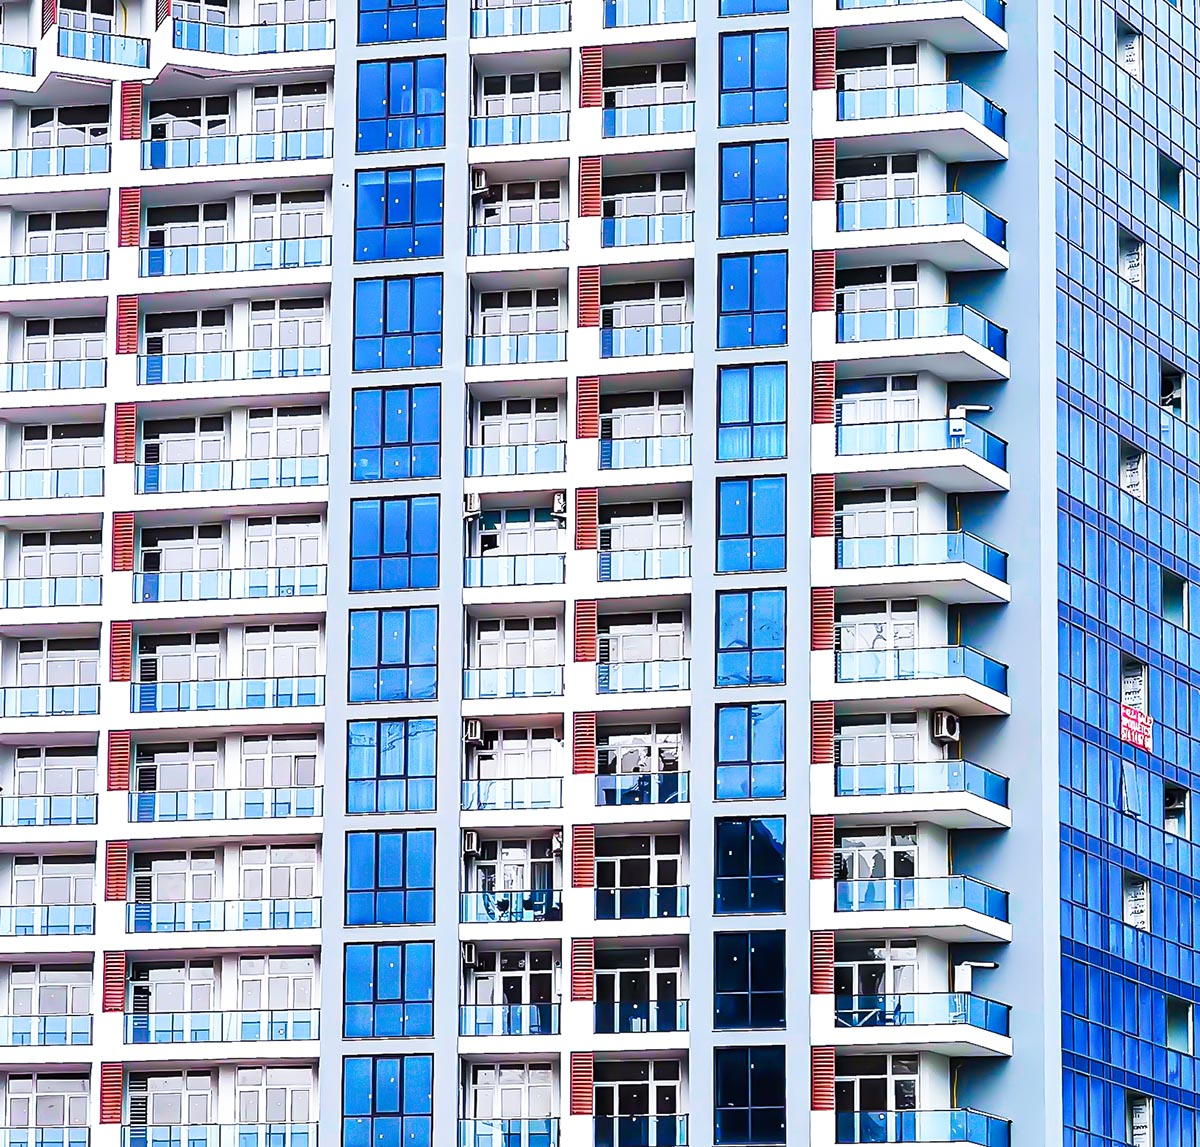
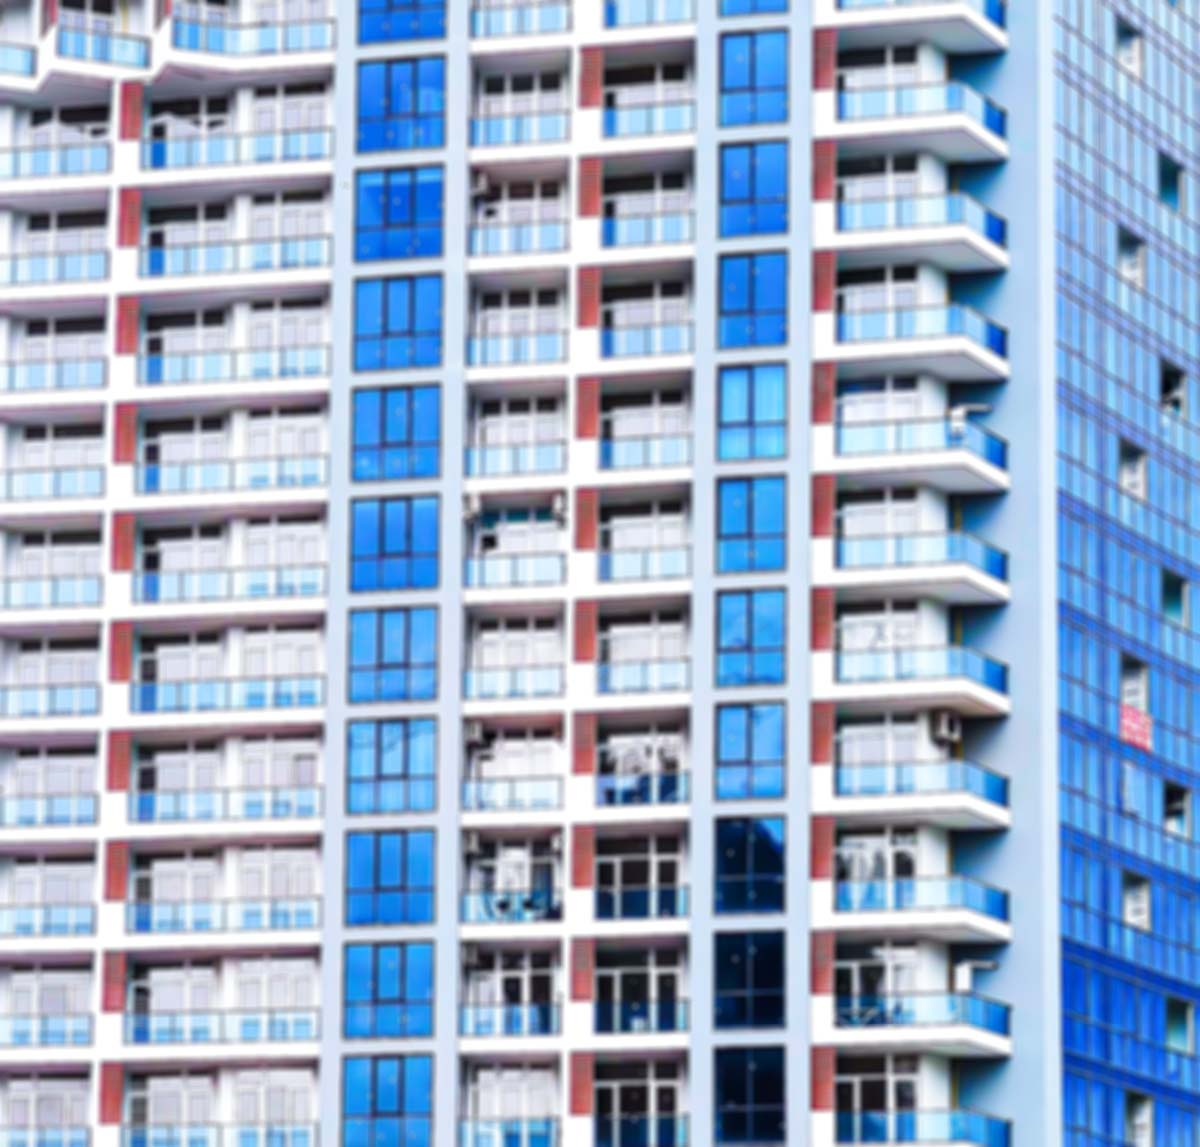
fixes

diff --git a/assets/sass/_container.scss b/assets/sass/_container.scss
@@ -2,14 +2,14 @@
   position: relative;
   height: 100%;
   margin-left: 260px;
-  background-image: url('../../static/images/bg_.jpg');
+  background-image: url('../../static/images/bg.jpg');
   background-repeat: no-repeat;
   background-size: cover;
   background-attachment: fixed;
   z-index: 0;
 
   &.blur {
-    background-image: url('../../static/images/bgblur_.jpg');
+    background-image: url('../../static/images/bgblur.jpg');
     animation: bgBlur 1s;
     animation-iteration-count: 1;
     -webkit-animation: bgBlur 1s;
@@ -18,21 +18,21 @@
 
   @-webkit-keyframes bgBlur {
     0% {
-      background-image: url('../../static/images/bg_.jpg');
+      background-image: url('../../static/images/bg.jpg');
     }
 
     100% {
-      background-image: url('../../static/images/bgblur_.jpg');
+      background-image: url('../../static/images/bgblur.jpg');
     }
   }
 
   @keyframes bgBlur {
     0% {
-      background-image: url('../../static/images/bg_.jpg');
+      background-image: url('../../static/images/bg.jpg');
     }
 
     100% {
-      background-image: url('../../static/images/bgblur_.jpg');
+      background-image: url('../../static/images/bgblur.jpg');
     }
   }
 

diff --git a/assets/sass/_general.scss b/assets/sass/_general.scss
@@ -6,7 +6,7 @@ body {
   position: relative;
   min-height: 100vh;
   margin: 0;
-  background-image: url('../../static/images/bg_.jpg');
+  background-image: url('../../static/images/bg.jpg');
   background-repeat: no-repeat;
   background-size: cover;
   background-attachment: fixed;
